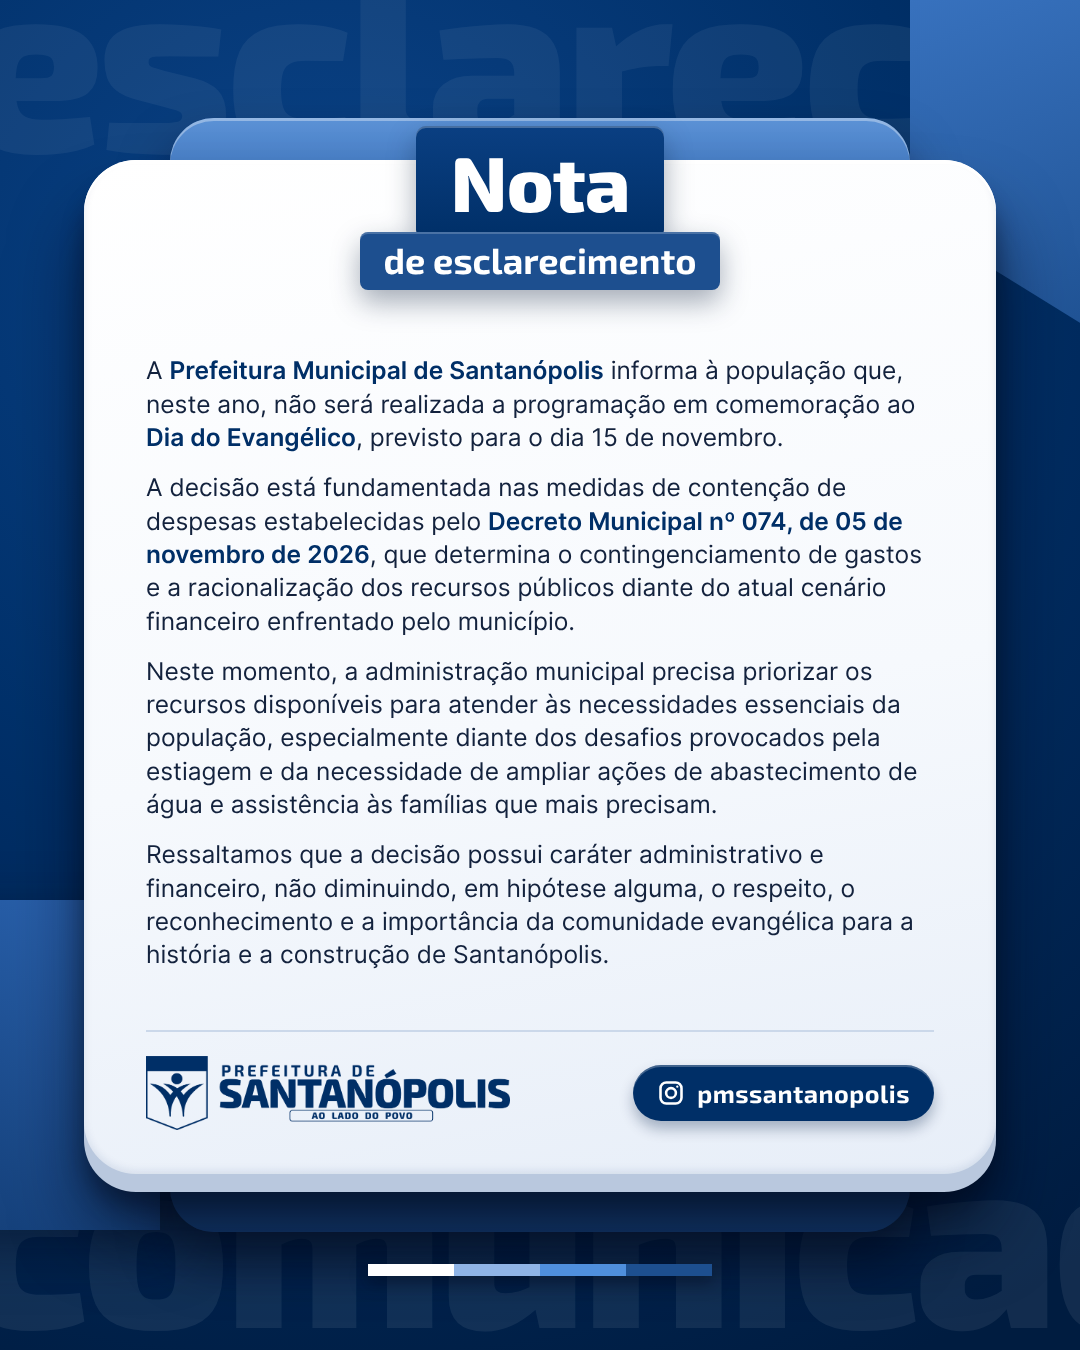
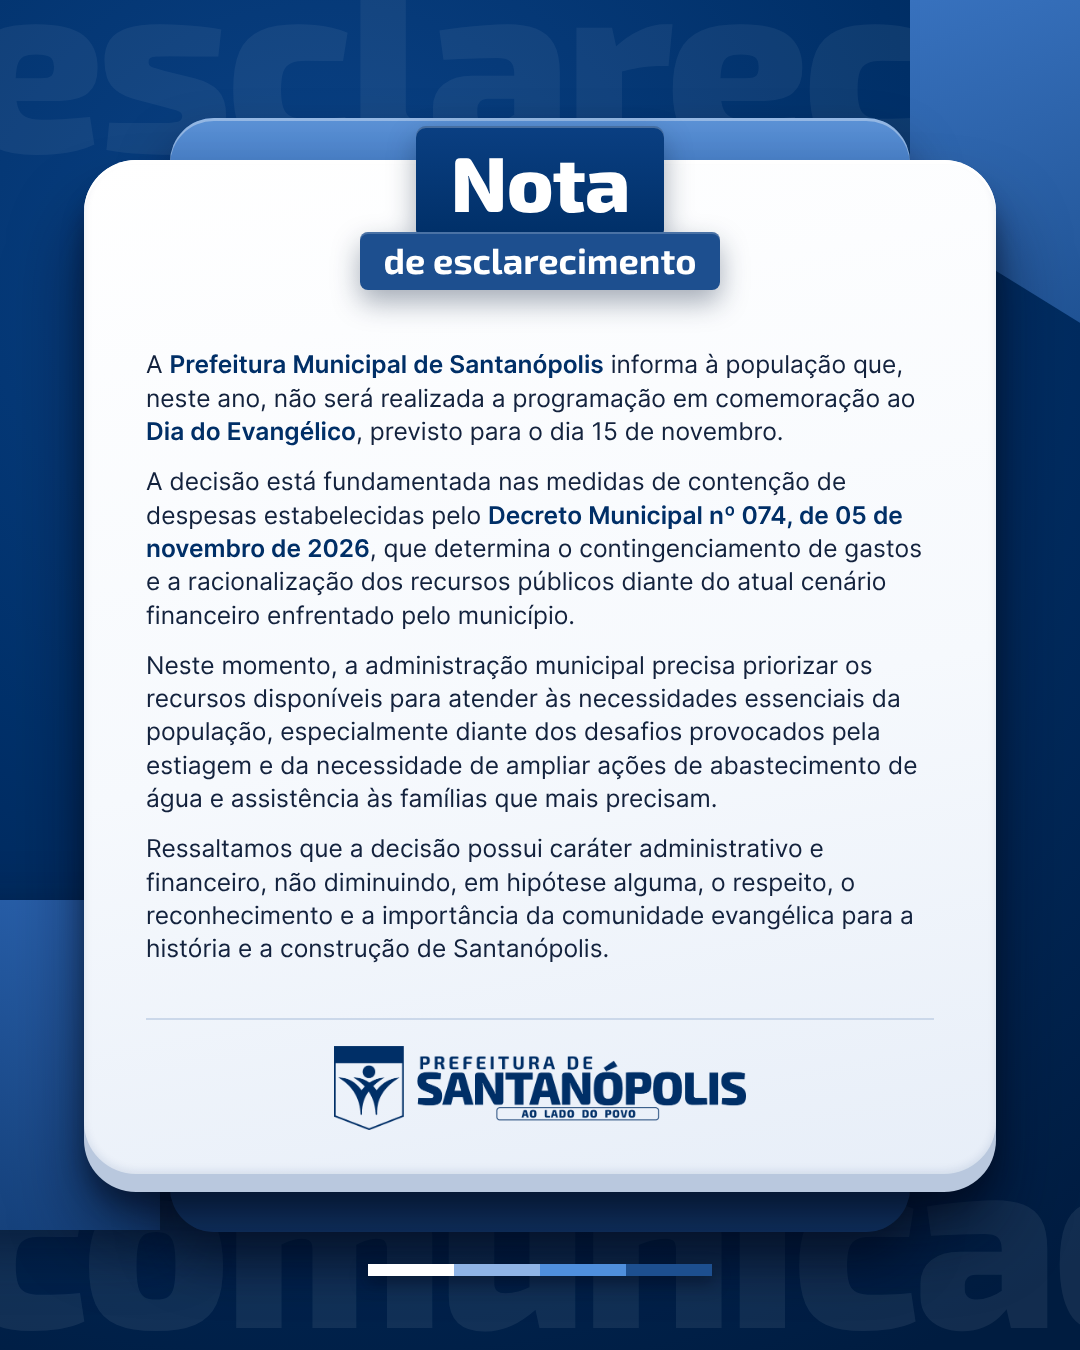
Prefeitura: retira o @ do card da Nota de Esclarecimento
Claude-Session: https://claude.ai/code/session_01RAcsiFGu29195DsmEF2G4s

Changed region(s): [[0.1222, 0.2489, 0.8556, 0.7156], [0.1222, 0.7467, 0.8861, 0.84]]

diff --git a/clientes/prefeitura-santanopolis/entregas/2026-11-13-nota-dia-do-evangelico/card.html b/clientes/prefeitura-santanopolis/entregas/2026-11-13-nota-dia-do-evangelico/card.html
@@ -31,8 +31,8 @@ body{width:1080px;height:1350px;position:relative;overflow:hidden;font-family:In
 .texto{flex:1;display:flex;flex-direction:column;justify-content:center;gap:17px;padding-top:6px}
 .texto p{font-size:24.5px;line-height:1.36;text-align:left}
 .texto strong{font-weight:600;color:var(--azul)}
-.rodape{width:100%;display:flex;align-items:center;justify-content:space-between;padding-top:24px;border-top:2px solid #CBD8EA}
-.rodape img{height:74px}
+.rodape{width:100%;display:flex;align-items:center;justify-content:center;padding-top:26px;border-top:2px solid #CBD8EA}
+.rodape img{height:84px}
 .ig{display:flex;align-items:center;gap:12px;background:var(--azul);color:#fff;font:700 25px/1 "Exo 2";letter-spacing:.02em;
   padding:14px 24px;border-radius:999px;box-shadow:0 8px 14px rgba(0,30,70,.3),inset 0 2px 0 rgba(255,255,255,.25)}
 .ig svg{width:28px;height:28px}
@@ -55,7 +55,6 @@ body{width:1080px;height:1350px;position:relative;overflow:hidden;font-family:In
   </div>
   <div class="rodape">
     <img src="../../identidade/logo-prefeitura-azul-transparente.png" alt="">
-    <div class="ig"><svg viewBox="0 0 24 24" fill="none" stroke="#fff" stroke-width="2.2"><rect x="3" y="3" width="18" height="18" rx="5"/><circle cx="12" cy="12" r="4.2"/><circle cx="17.4" cy="6.6" r="1" fill="#fff" stroke="none"/></svg>pmssantanopolis</div>
   </div>
 </section>
 <div class="barras"><i></i><i></i><i></i><i></i></div>
